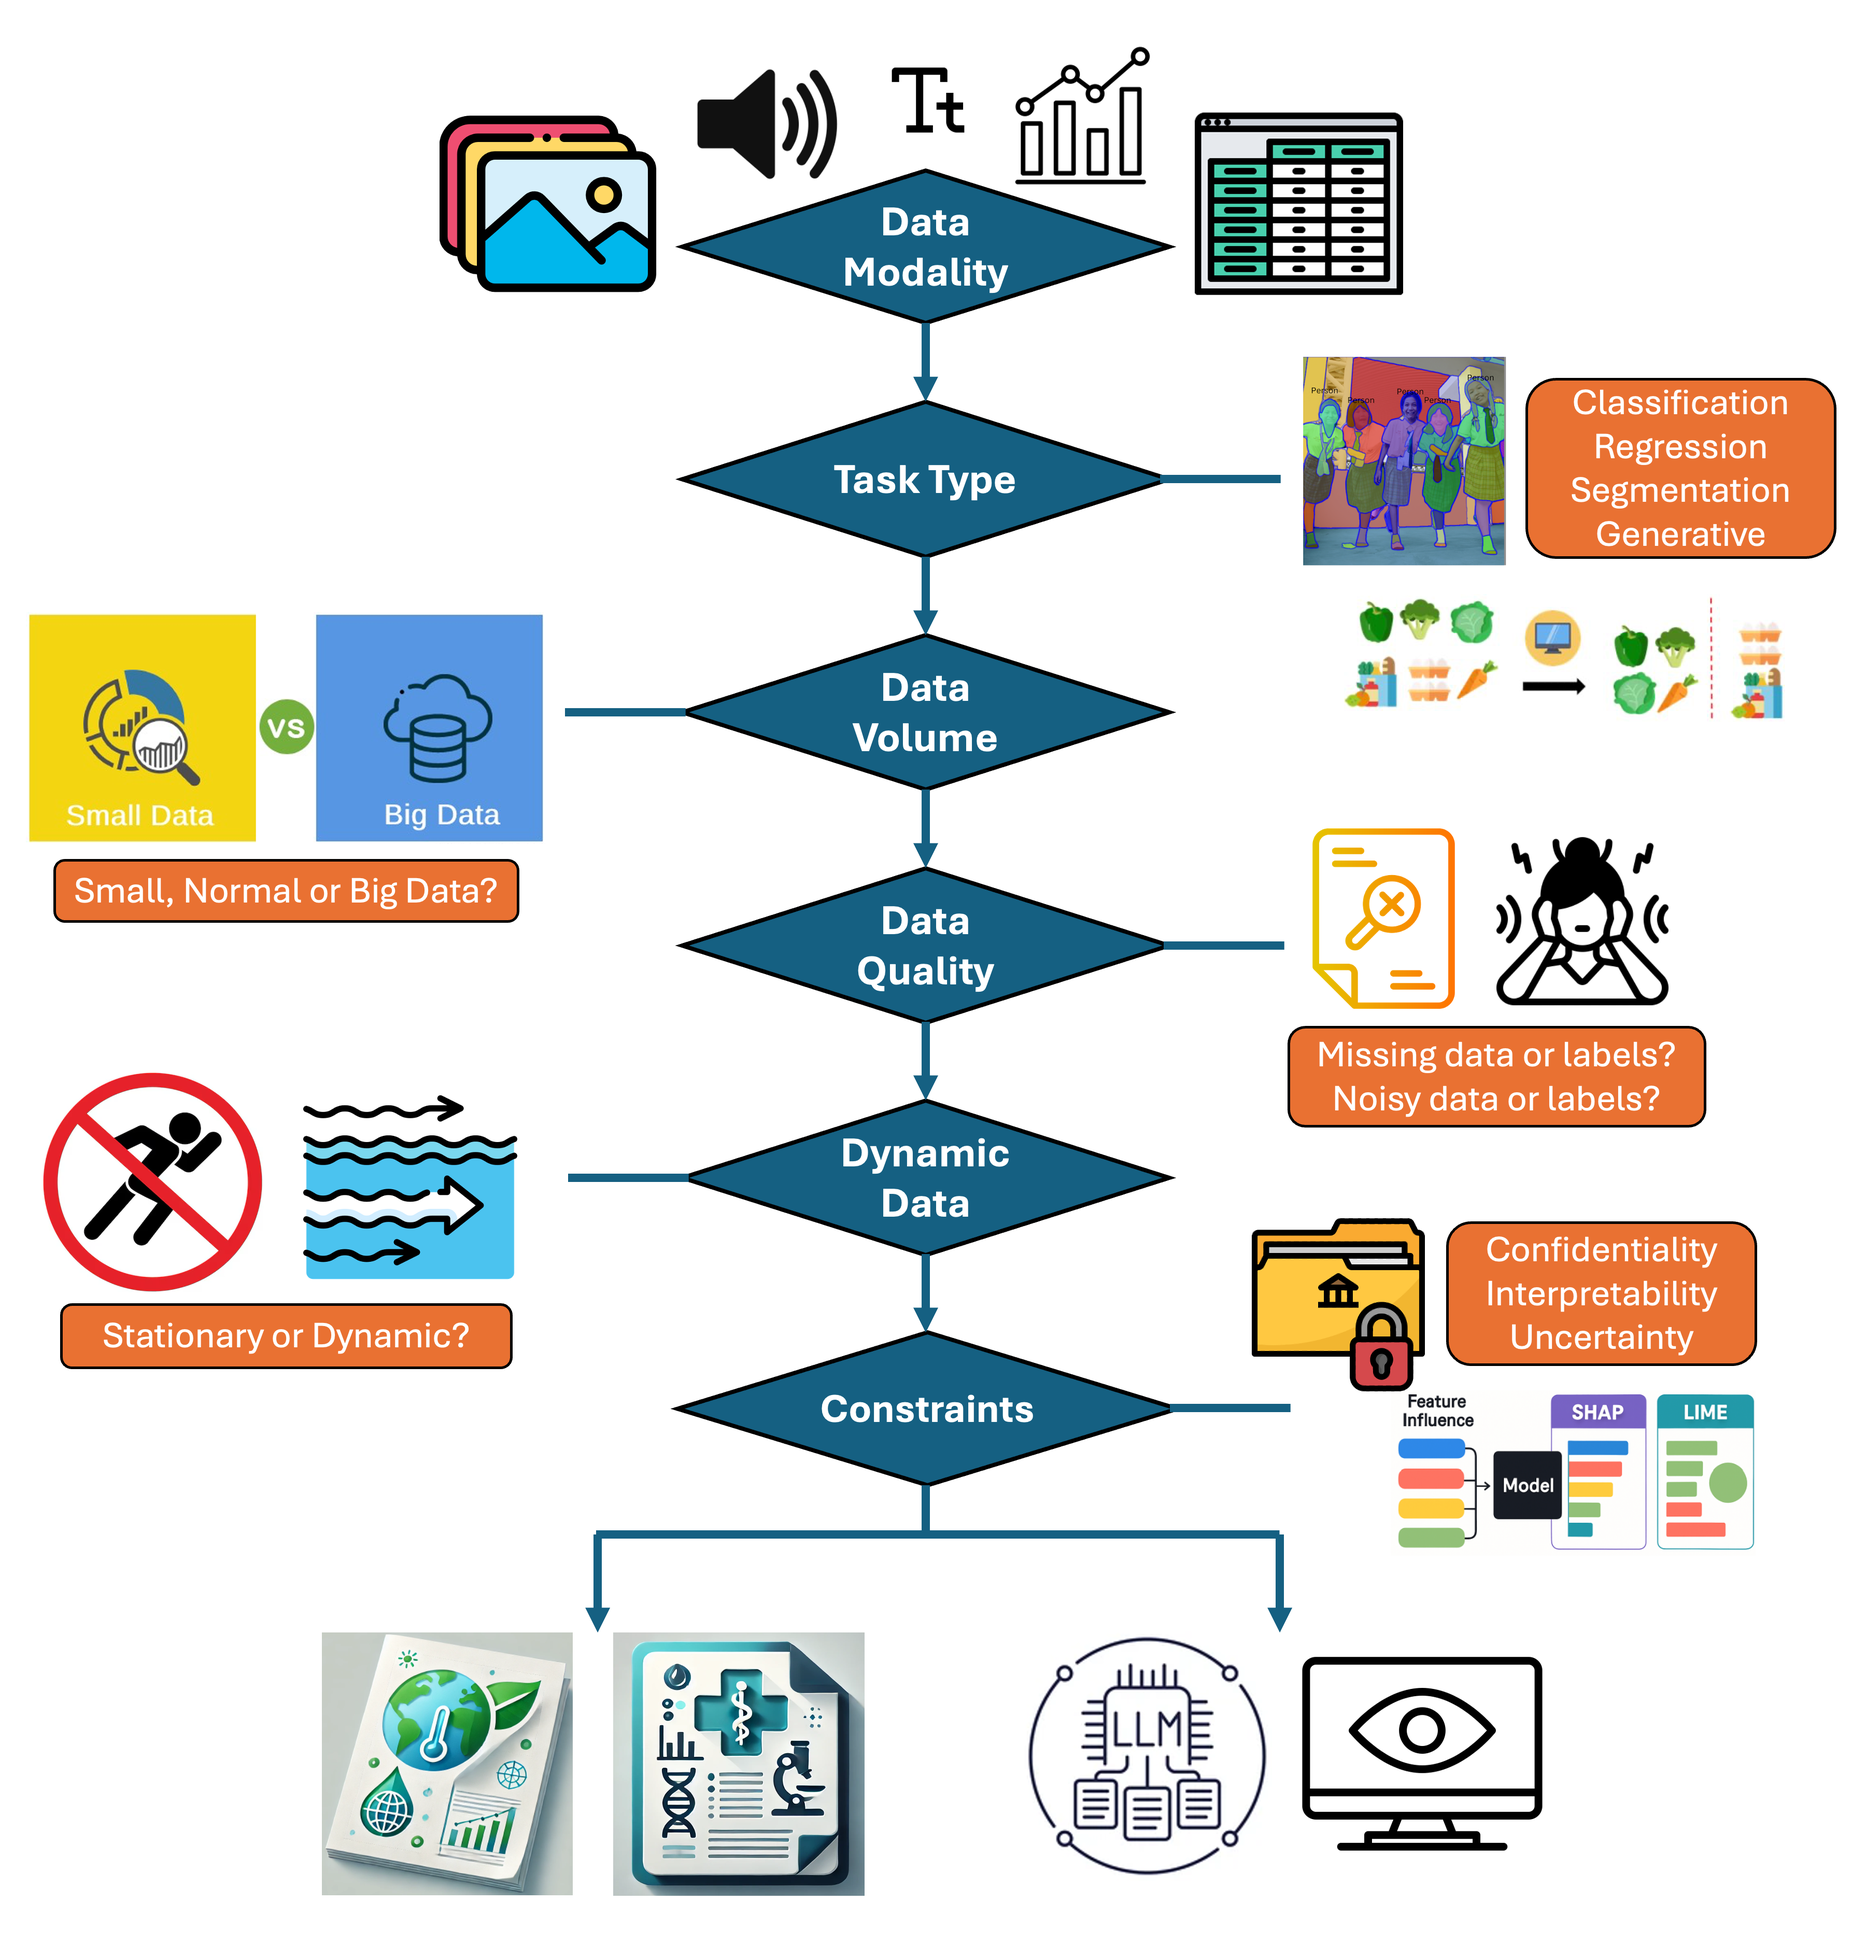
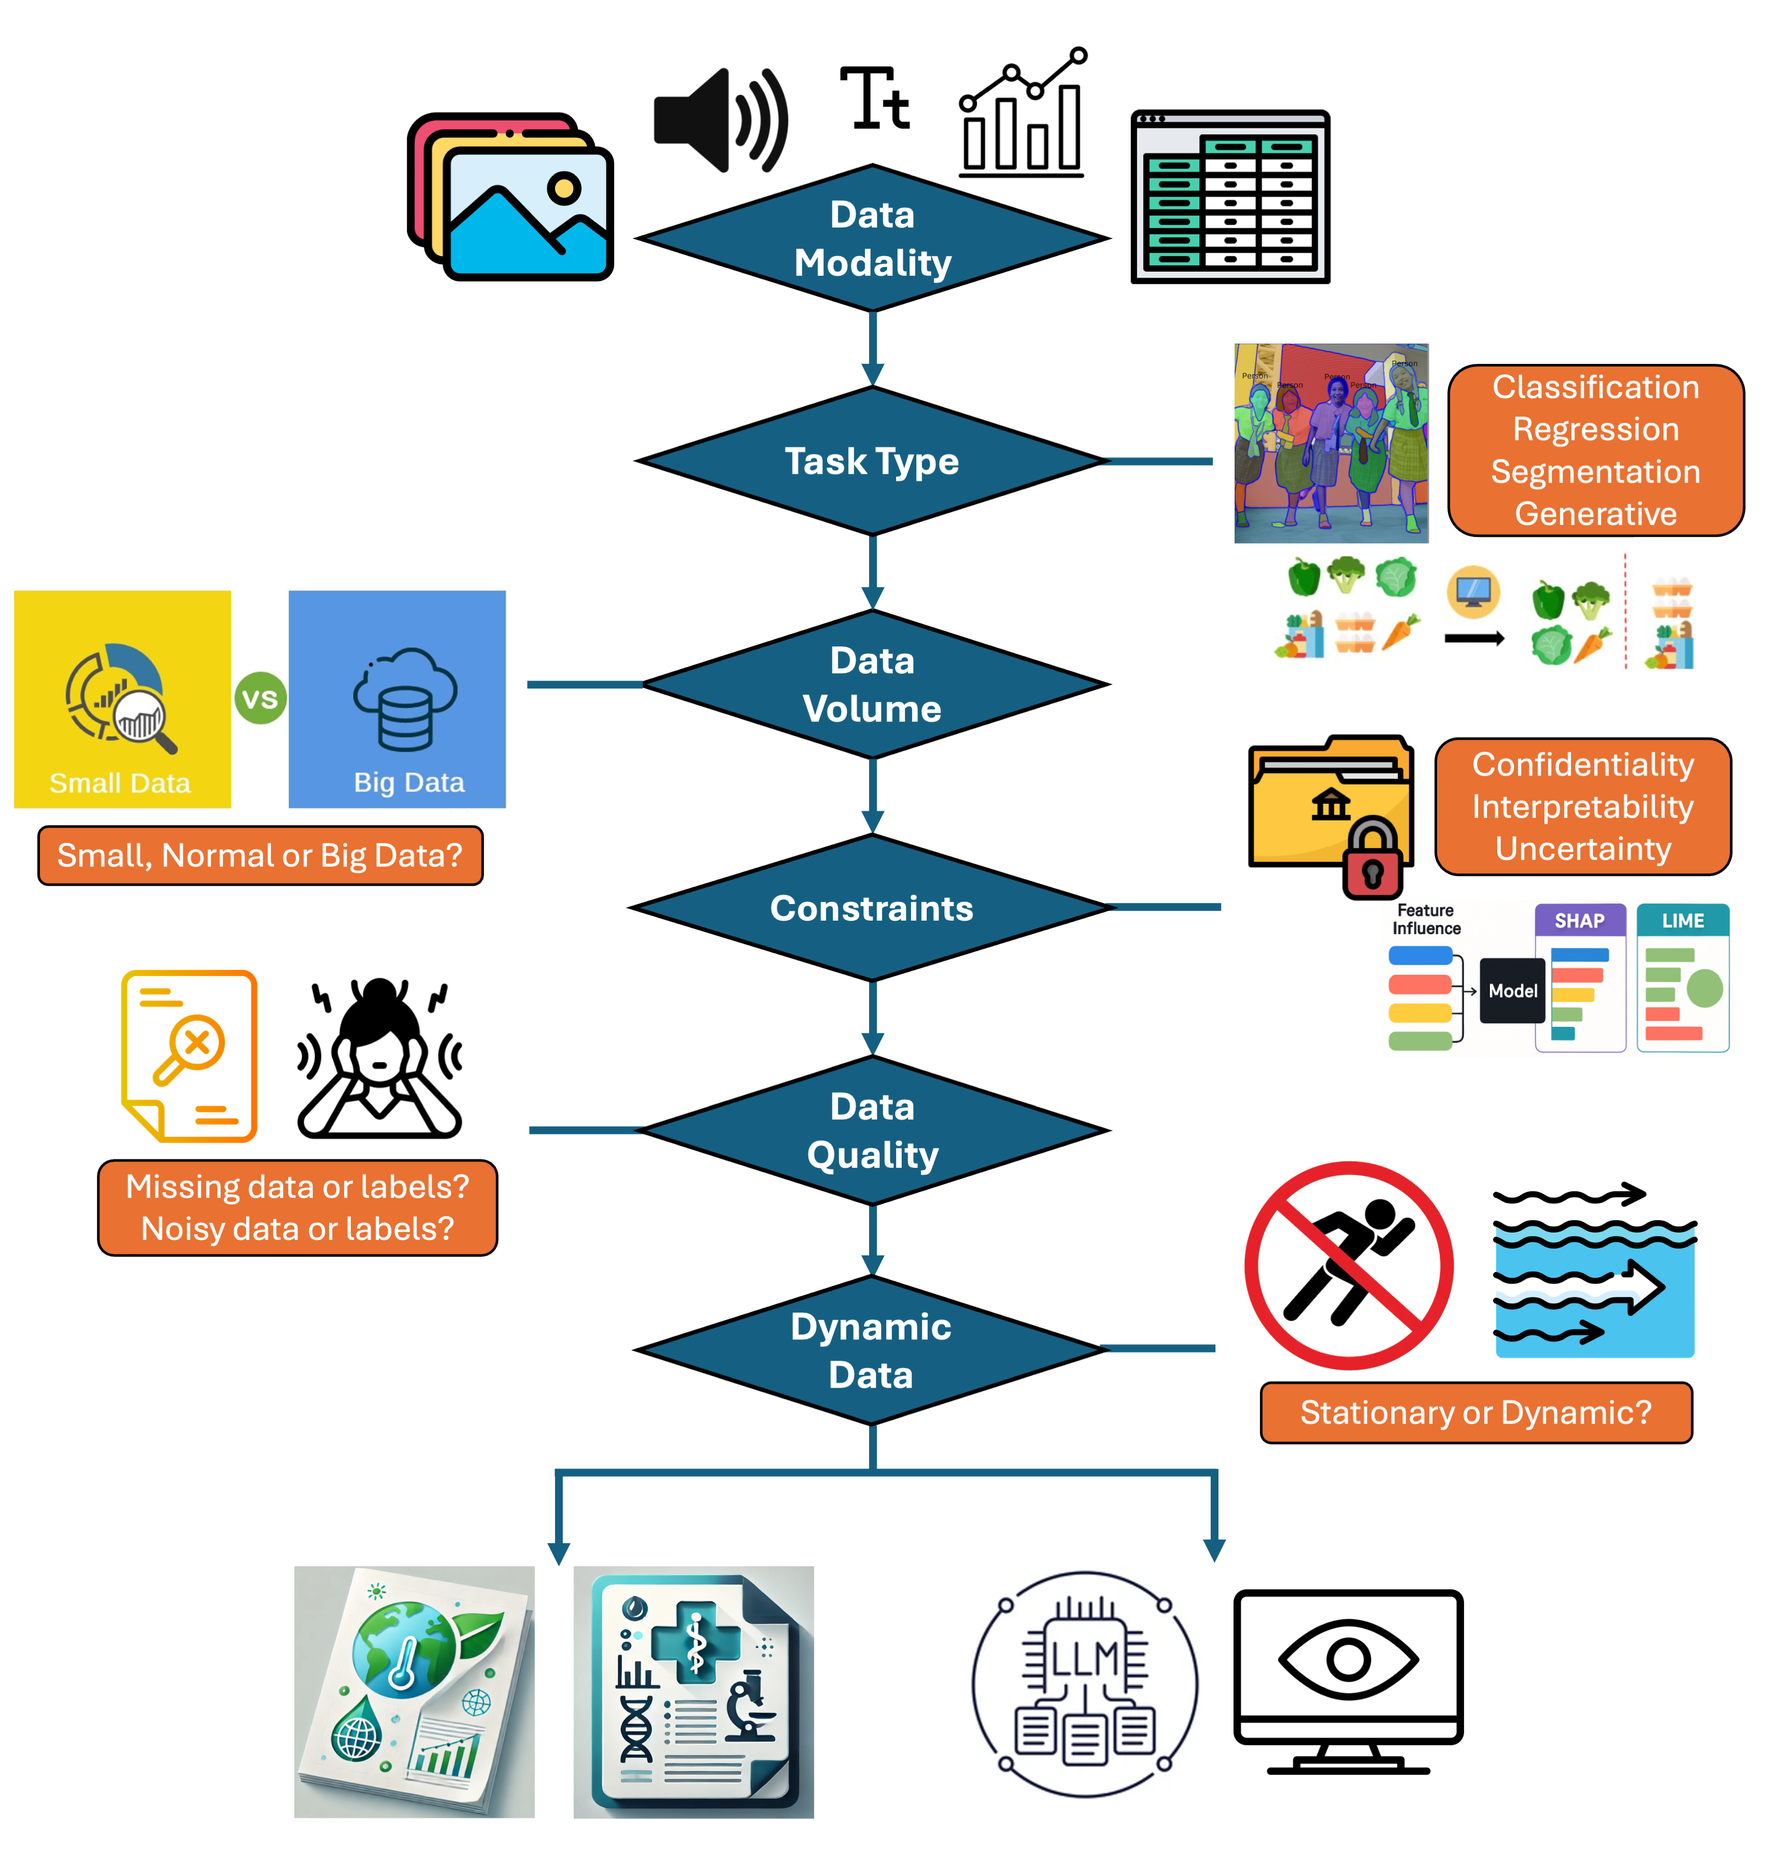
Updated the paper title, abstract, and confidential data section

diff --git a/docs/about.md b/docs/about.md
@@ -7,13 +7,13 @@ This website accompanies the folliwing paper and provides an interactive way to 
 
 ## Paper
 
-**A Practical Guide to Overcoming Real-World Data Challenges in Artificial Intelligence Training**  
+**A Practical Guide to Using Real-World Data in Artificial Intelligence Training**  
 [Link to the paper: coming soon]
 <!-- (https://example.com/paper-link) -->
 
 ## Abstract
 
-Selecting appropriate machine learning or deep learning models for real-world problems remains a challenging task, as it depends not only on predictive performance but also on the characteristics of the data and practical constraints of the application. This paper presents a decision-oriented framework that explicitly links common data challenges to suitable classes of machine learning approaches, providing a structured perspective on model selection beyond traditional method-centric reviews. To operationalise this framework, we introduce an interactive dashboard that guides users through a structured set of questions about their data and problem setting, and maps their responses to relevant model families and supporting literature. The system translates expert knowledge into an accessible, user-facing decision-support tool, enabling more informed and transparent model selection for both practitioners and non-experts. The accompanying review synthesises key model families and recurring data challenges, forming the conceptual foundation of the proposed system. By integrating a data-centric taxonomy with an operational decision tool, this work provides a practical bridge between methodological understanding and real-world model selection.
+As data grows more diverse and complex, selecting an appropriate machine learning or deep learning model for a real-world problem has become increasingly challenging. Effective model choice depends not only on predictive performance but also on the characteristics of the data and the practical constraints of the application. This paper presents a decision-oriented framework that explicitly links common data challenges to suitable classes of machine learning approaches, providing a structured perspective on model selection beyond traditional method-centric reviews. To operationalise this framework, we introduce an interactive dashboard that guides users through a structured set of questions about their data and problem setting, and maps their responses to relevant model families and supporting literature. The system translates expert knowledge into an accessible, user-facing decision-support tool, enabling more informed and transparent model selection for both practitioners and non-experts. The accompanying review synthesises key model families and recurring data challenges, forming the conceptual foundation of the proposed system. By integrating a data-centric taxonomy with an operational decision tool, this work gives researchers an accessible way to connect data characteristics to suitable modelling approaches.
 
 ## About this website
 

diff --git a/docs/data-challenges/confidential.md b/docs/data-challenges/confidential.md
@@ -3,7 +3,7 @@ title: Confidential data
 sidebar_position: 8
 ---
 
-CConfidential data refers to all information that requires protection due to its sensitive nature and the context in which it is used. It is often specified as confidential for legal, regulatory, or ethical reasons. This category includes, but is not limited to, personal information, financial records, business strategies, trade secrets, and other proprietary information. Unlike other data challenges discussed in this review and previously in [Lever et al. (2025)](https://doi.org/10.1016/j.jocs.2024.102523), confidentiality has recently emerged as a central concern in AI workflows. We consider it in greater detail here to reflect its increasing importance in data-driven research and practice, as unauthorised access, theft, alteration, deletion, data leakage, and misuse of this information can cause damage to all parties responsible for its ownership, processing, or protection.
+Confidential data refers to all information that requires protection due to its sensitive nature and the context in which it is used. It is often specified as confidential for legal, regulatory, or ethical reasons. This category includes, but is not limited to, personal information, financial records, business strategies, trade secrets, and other proprietary information.
 
 The risks to the confidentiality, integrity, or availability of data and information systems have intensified with the deployment of AI technologies that are used across multiple domains and trained on vast amounts of data, often drawn from public and proprietary sources that may contain confidential information. These risks encompass the entire data handling lifecycle, including collection, processing, model training, deployment, and storage.
 
